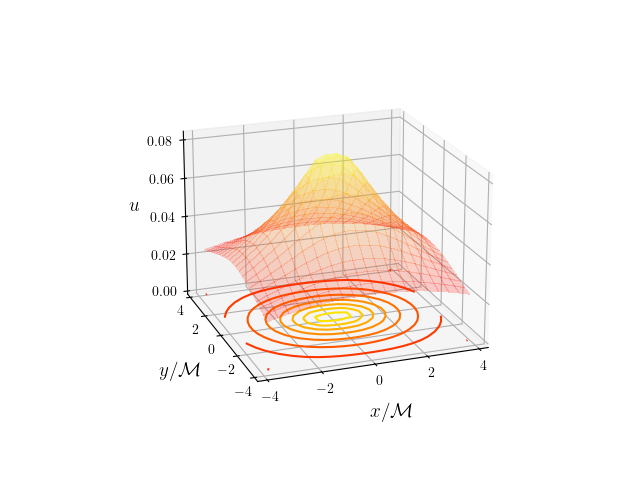
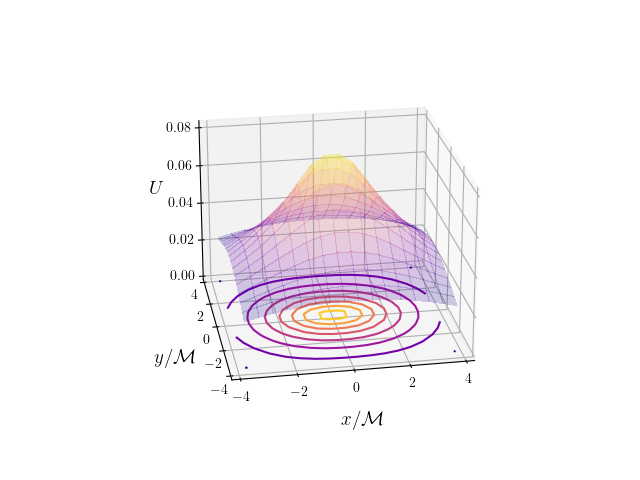
fixed savefig error

Changed region(s): [[0.2188, 0.2188, 0.7812, 0.8438], [0.5312, 0.8438, 0.6562, 0.9062], [0.1875, 0.4062, 0.2188, 0.4375]]

diff --git a/plot_simulation.py b/plot_simulation.py
@@ -26,29 +26,29 @@ def puncture_plot(data_file: str, plot_file=0) -> None:
     FCT = np.reshape(fct, (n_grid, n_grid))
     fig = plt.figure()
     ax = fig.gca(projection='3d')
-    ax.plot_surface(X, Y, FCT, cmap=cm.autumn, linewidth=1,
+    ax.plot_surface(X, Y, FCT, cmap=cm.plasma, linewidth=1,
                     antialiased=False, alpha=0.2)
-    ax.contour(X, Y, FCT, zdir='z', offset=0.0, cmap=cm.autumn)
+    ax.contour(X, Y, FCT, zdir='z', offset=0.0, cmap=cm.plasma)
     #
     if find_executable('latex'):
         ax.set_xlabel(r"$x / {\mathcal M}$", size=14)
         ax.set_ylabel(r"$y / {\mathcal M}$", size=14)
-        ax.set_zlabel(r"$u$", size=14)
+        ax.set_zlabel(r"$U$", size=14)
     else:
         ax.set_xlabel("x / M", size=14)
         ax.set_ylabel("y / M", size=14)
-        ax.set_zlabel("u", size=14)
+        ax.set_zlabel("U ", size=14)
     ax.set_zlim(0.0, max(fct))
     ax.tick_params(axis='x', which='major', pad=-2)
     ax.tick_params(axis='y', which='major', pad=-2)
     ax.xaxis.set_rotate_label(False)
     ax.yaxis.set_rotate_label(False)
     ax.zaxis.set_rotate_label(False)
-    ax.view_init(elev=20., azim=-110)
+    ax.view_init(elev=23., azim=-100)
     if plot_file == 0:
         plt.show()
     else:
-        plt.savefig(plot_file, psi=300)
+        plt.savefig(plot_file)
 
 
 def main():
@@ -88,7 +88,7 @@ def usage():
     print(
         "\t-data: provide name of data_file [Default: simulation_data_16_4.0.data] ")
     print(
-        "\t-plot: if provided, plot will be saved to this file [Default: None]")
+        "\t-save: if provided, plot will be saved to this file [Default: None]")
     print("-"*30)
     print("For example, to make a plot of the file simulation_data_24_6.0.data")
     print("and save to file example.pdf, call")
